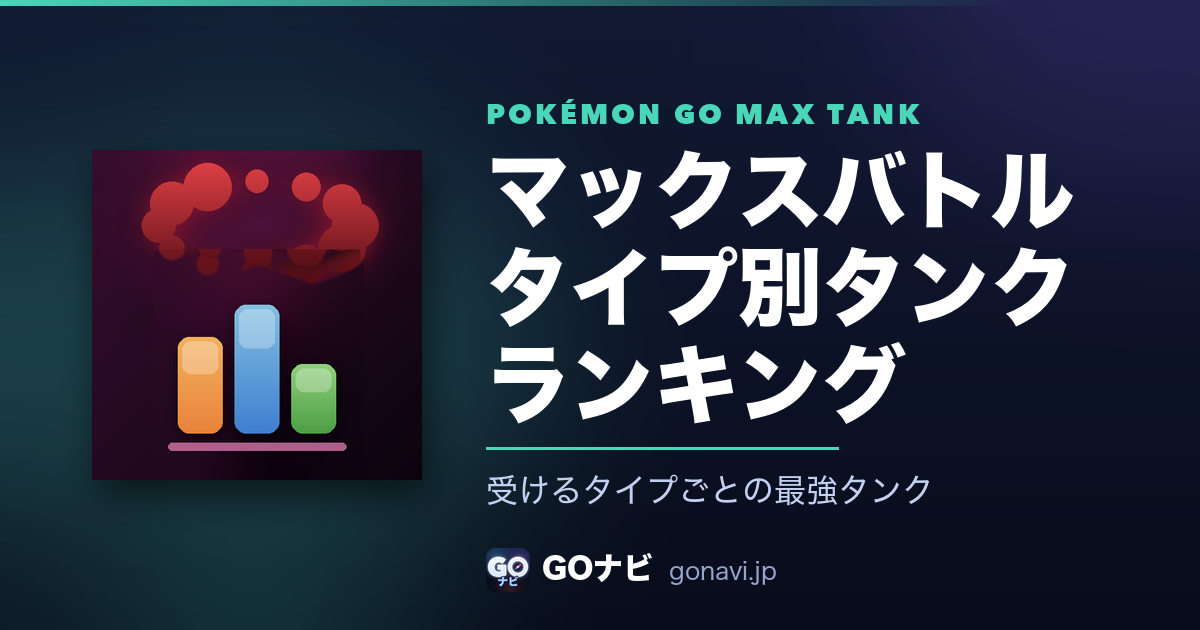
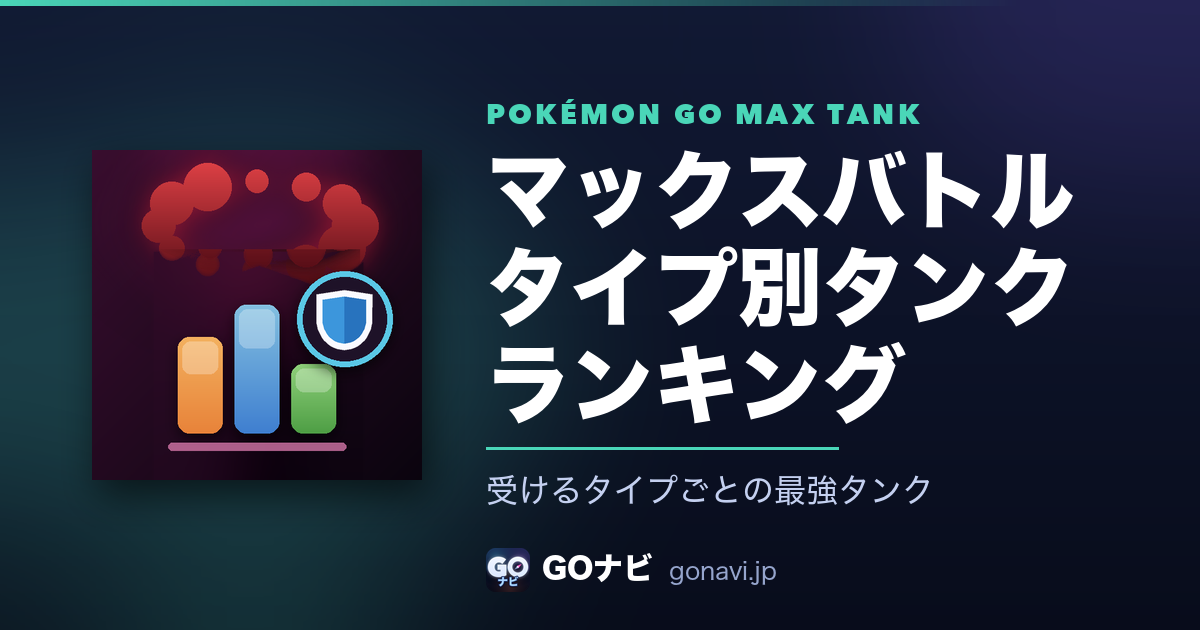
feat(max-type): アタッカーとタンクでアイコンを分ける(剣と盾の札)

Changed region(s): [[0.2467, 0.4222, 0.3392, 0.6032]]

diff --git a/index.html b/index.html
@@ -251,7 +251,7 @@ footer{margin-top:52px;padding-top:20px;border-top:1px solid var(--hair);
 <div class="cards" style="--gc:var(--g4)">
   <a class="card" href="/max-battle/"><img src="/assets/icons/max-battle/icon-192.png" alt="" width="52" height="52" decoding="async"><span class="tx"><b class="nm">マックスバトル対策</b><span class="ds expl">攻める役と耐える役、それぞれ誰を出せばいいか決まります</span></span></a>
   <a class="card" href="/max-type/"><img src="/assets/icons/max-type/icon-192.png" alt="" width="52" height="52" decoding="async"><span class="tx"><b class="nm">タイプ別アタッカー</b><span class="ds expl">タイプごとに、ダイマックスフェイズで強いアタッカーが分かります</span></span></a>
-  <a class="card" href="/max-type/tank/"><img src="/assets/icons/max-type/icon-192.png" alt="" width="52" height="52" decoding="async"><span class="tx"><b class="nm">タイプ別タンク</b><span class="ds expl">受けるわざのタイプごとに、倒されにくいタンクが分かります</span></span></a>
+  <a class="card" href="/max-type/tank/"><img src="/assets/icons/max-type-tank/icon-192.png" alt="" width="52" height="52" decoding="async"><span class="tx"><b class="nm">タイプ別タンク</b><span class="ds expl">受けるわざのタイプごとに、倒されにくいタンクが分かります</span></span></a>
 </div>
 
 <div class="gsec" style="--gc:var(--g2)"><span class="en">Trainer Battle</span><span class="ja">トレーナーバトル</span><span class="rule"></span><span class="no">04</span></div>

diff --git a/max-type/tank/index.html b/max-type/tank/index.html
@@ -20,8 +20,8 @@
 <meta name="twitter:card" content="summary_large_image">
 <script type="application/ld+json">{"@context":"https://schema.org","@type":"WebApplication","name":"マックスバトル タイプ別タンクランキング","url":"https://gonavi.jp/max-type/tank/","description":"ポケモンGOのマックスバトルで、ボスのわざのタイプごとに倒されにくいタンクを耐久順に並べたランキング。ダイウォールの壁込みで、防御が高いポケモンを評価する並びにも切り替えられます。","applicationCategory":"GameApplication","operatingSystem":"Any","inLanguage":"ja","isPartOf":{"@type":"WebSite","name":"GOナビ","url":"https://gonavi.jp/"},"offers":{"@type":"Offer","price":"0","priceCurrency":"JPY"}}</script>
 <!-- seo:end -->
-<link rel="icon" type="image/png" sizes="32x32" href="/assets/icons/max-type/favicon-32.png">
-<link rel="apple-touch-icon" sizes="180x180" href="/assets/icons/max-type/apple-touch-icon.png">
+<link rel="icon" type="image/png" sizes="32x32" href="/assets/icons/max-type-tank/favicon-32.png">
+<link rel="apple-touch-icon" sizes="180x180" href="/assets/icons/max-type-tank/apple-touch-icon.png">
 <link rel="manifest" href="/max-type/tank/manifest.webmanifest">
 <meta name="apple-mobile-web-app-title" content="マックスバトル タイプ別タンクランキング">
 <link rel="stylesheet" href="/assets/theme.css">

diff --git a/404.html b/404.html
@@ -45,7 +45,7 @@
     <li><a href="/iv-checker/"><img src="/assets/icons/iv-checker/icon-192.png" alt="">個体値チェッカー</a></li>
     <li><a href="/pokedex/"><img src="/assets/icons/pokedex/icon-192.png" alt="">ステータス図鑑</a></li>
     <li><a href="/max-type/"><img src="/assets/icons/max-type/icon-192.png" alt="">マックスバトル タイプ別アタッカー</a></li>
-    <li><a href="/max-type/tank/"><img src="/assets/icons/max-type/icon-192.png" alt="">マックスバトル タイプ別タンク</a></li>
+    <li><a href="/max-type/tank/"><img src="/assets/icons/max-type-tank/icon-192.png" alt="">マックスバトル タイプ別タンク</a></li>
     <li><a href="/bulk/"><img src="/assets/icons/bulk/icon-192.png" alt="">耐久指数ランキング</a></li>
   </ul>
   <a class="top" href="/">ツール一覧（トップページ）へ</a>

diff --git a/CLAUDE.md b/CLAUDE.md
@@ -7271,6 +7271,8 @@ CP制限では個体値3つとPLがセットで決まるため、マスターの
 - 同じ値は同順位。URLは `t=`(タイプ英語小文字) `m=tank` `g=1` `lg=0`
 - 画像保存は snap.js の `PUB['/max-type/']`。**グラフ用の名前は隠し要素 `.gname`**（キョダイマックスは「(キョダイ)」を添える＝ダイマックスと同じ名前が並ぶため）。見出しは `#curTypeName`（匹数を入れない）
 - アイコンは マックスバトル対策の赤い雲を残し、盾と剣を消して（周りの地の色で埋める）タイプ色（ほのお・みず・くさ）の棒グラフを置いたもの（`scratchpad/icon_maxtype.py`・リポジトリ外）
+- **アタッカーとタンクでアイコンを分けた**（2026-09-16タダシさんが5案からA案を選択）: 棒グラフの右上に丸い札（アタッカー＝橙の輪に剣／タンク＝水色の輪に盾）。
+  札は右端の棒の上端にわずかにかかる位置（512px基準で中心392,262・半径74）。タンクは `assets/icons/max-type-tank/`（タンクのページ・manifest・トップページのカード・404・共有用画像がこちらを読む）
 
 ### 新しいツールを作ったら専用アイコンとmanifestも必ず付ける（2026-08-20確定・タダシさん指摘）
 
